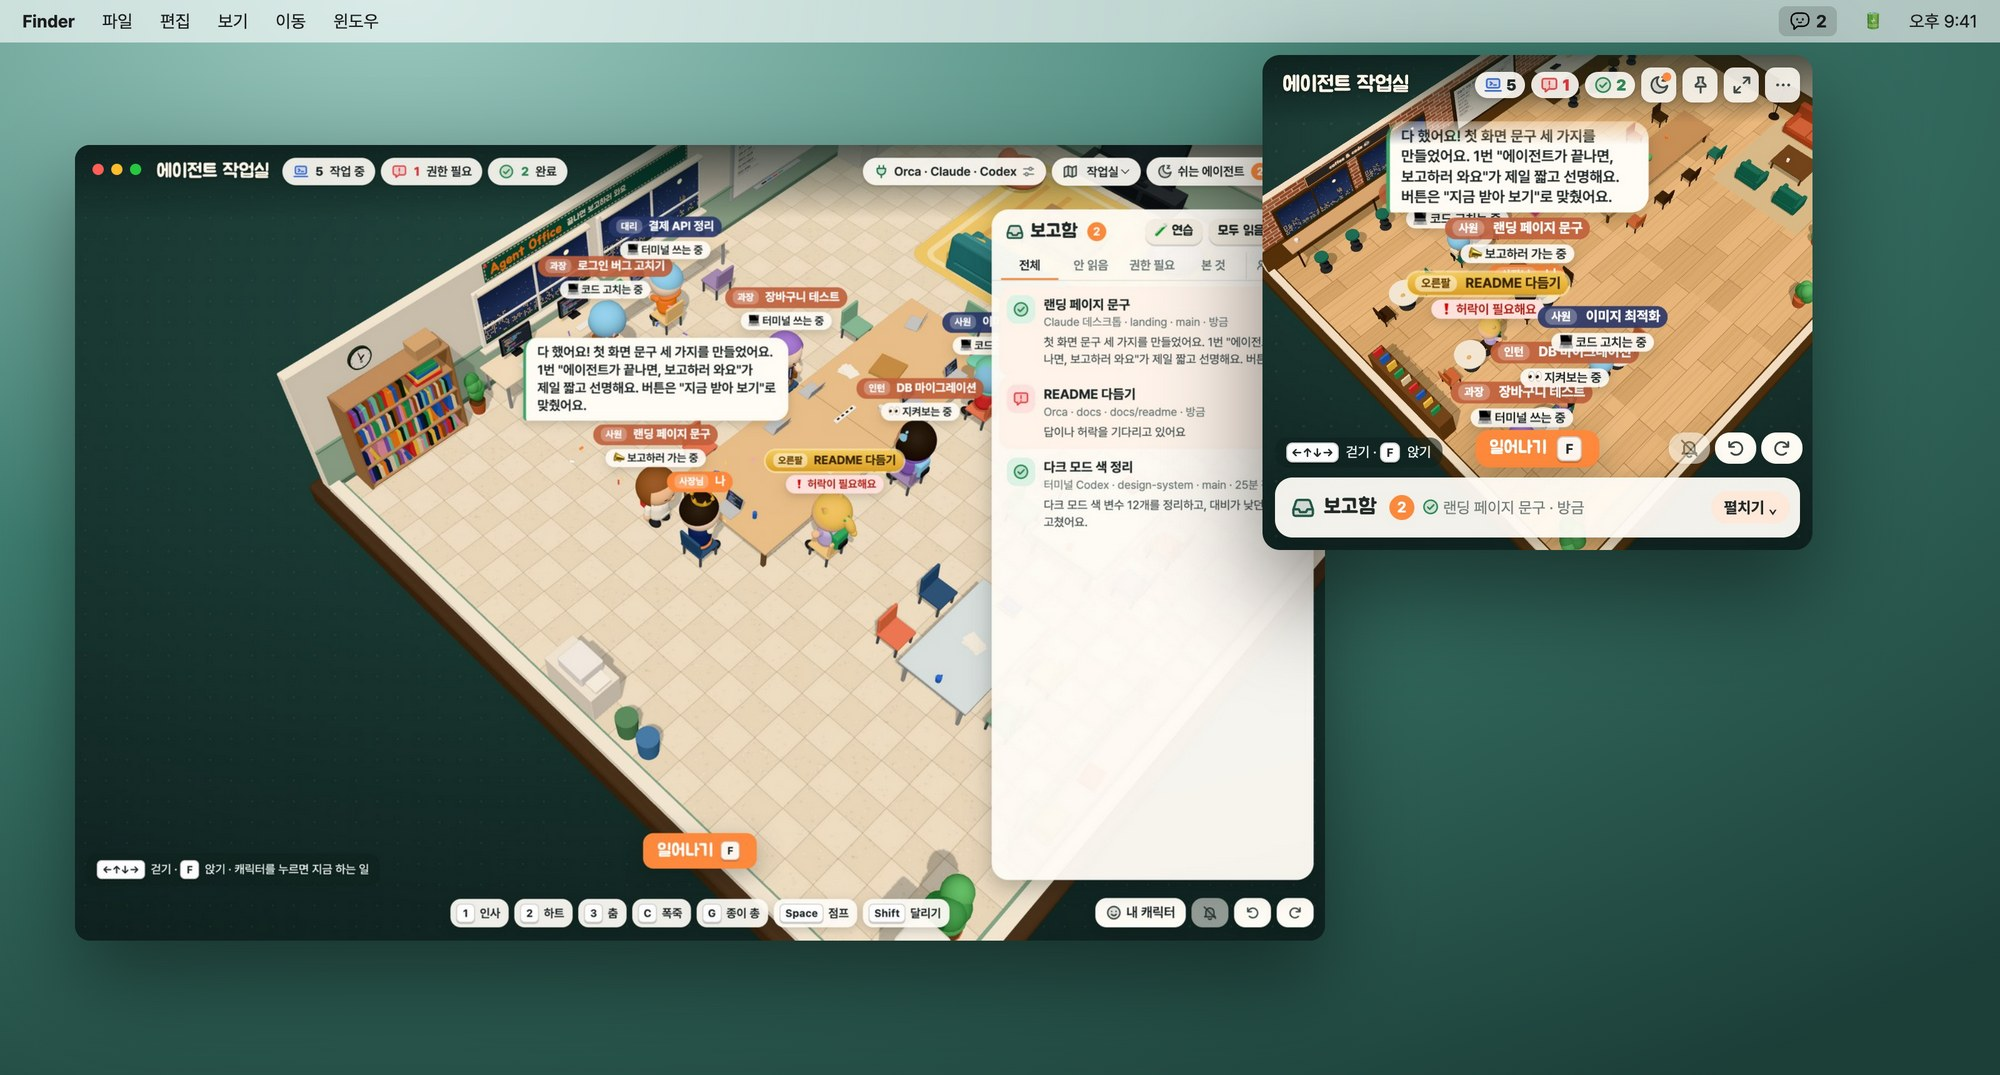
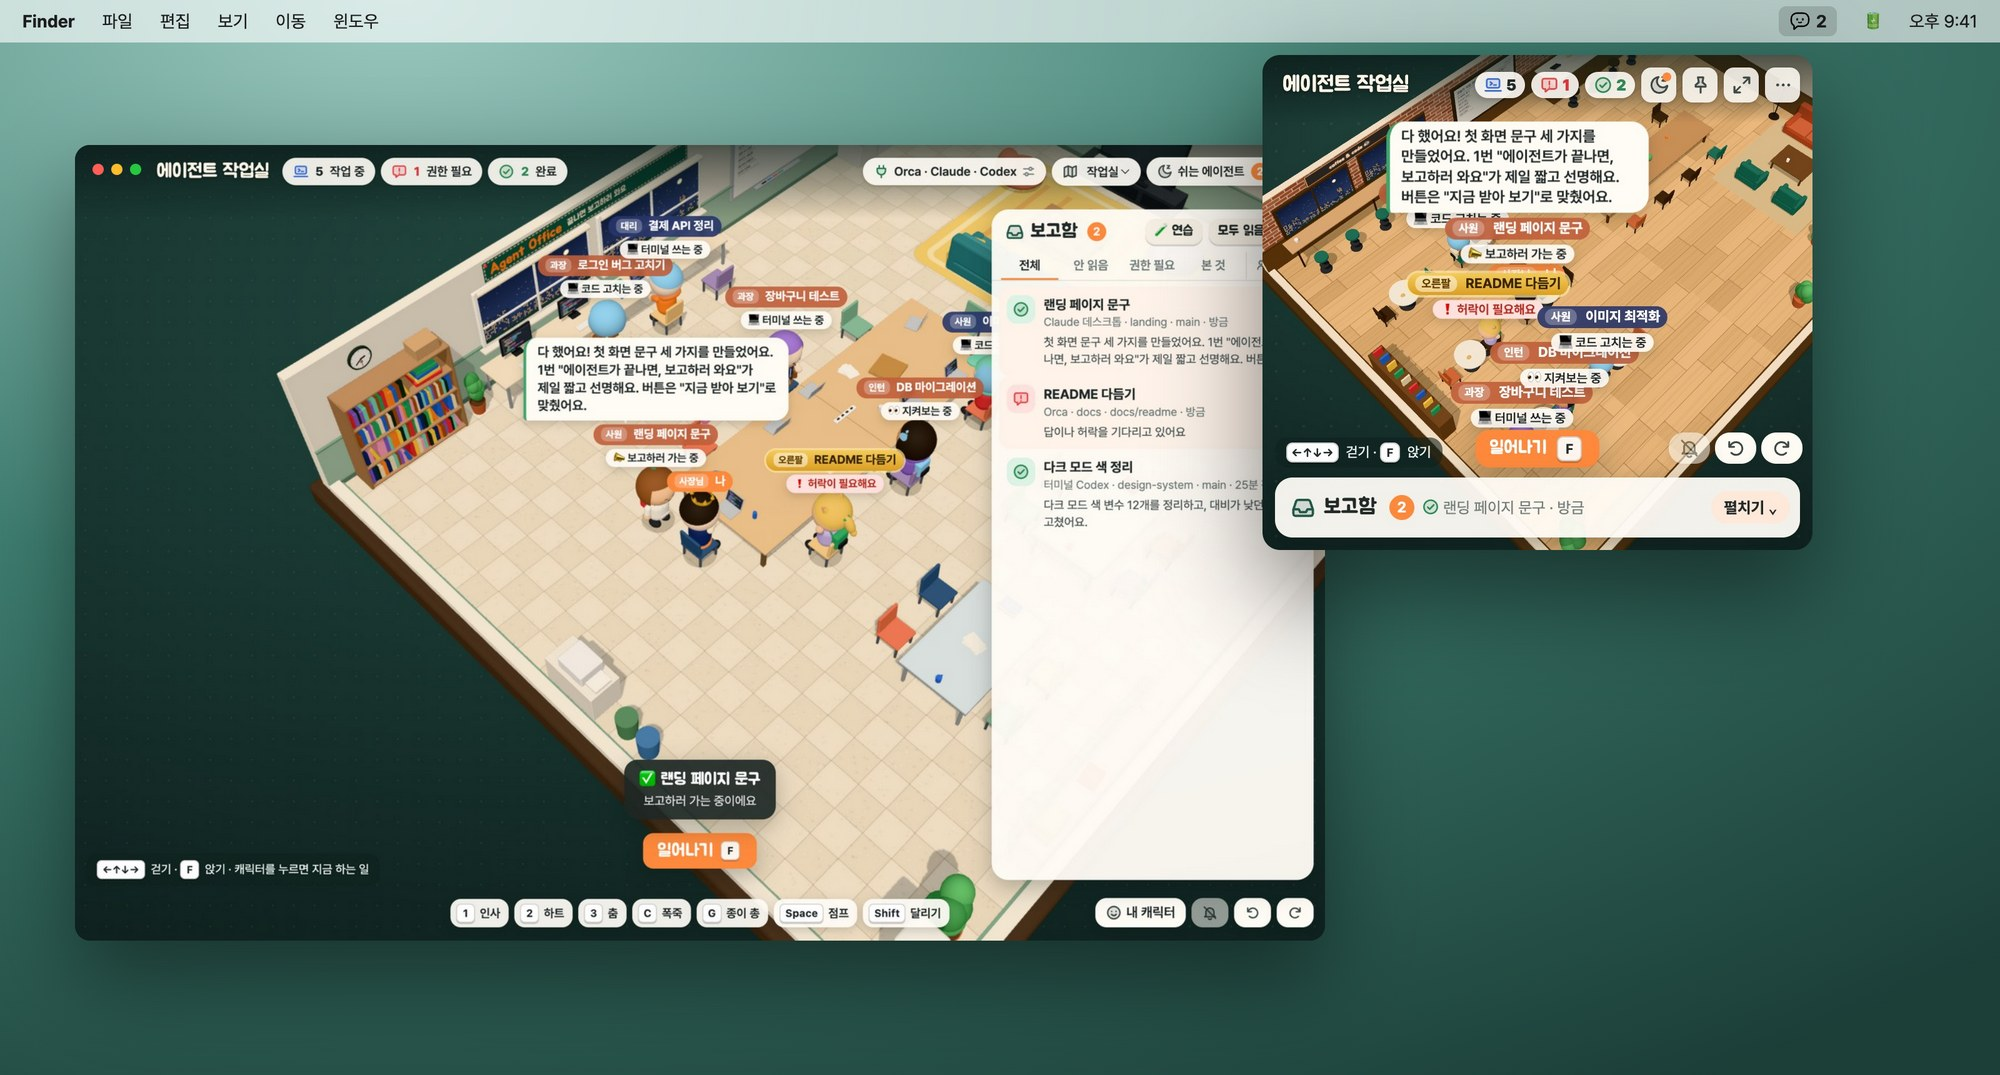
에이전트 작업실 0.1.2: 렉 줄이기
- 움직일 때만 1초에 60번 그리고, 가만히 있으면 24번, 다른 앱을 쓰는 중이면 12번
- 큰 창 해상도를 1.5배까지로
- 캐릭터는 발밑 동그란 그림자, 가구 그림자는 가끔만 다시 그리기
- 이름표마다 따로 겹을 만들어 창 전체를 다시 칠하지 않게 (가장 큰 원인)
- 작업실 창이 닫혀 있으면 에이전트 상태를 5초마다 확인
- README 스크린샷 갱신

diff --git a/renderer/app.js b/renderer/app.js
@@ -86,10 +86,11 @@ let VB = viewBox();
 
 // ---------- 장면 ----------
 const renderer = new THREE.WebGLRenderer({ antialias: true, alpha: true, powerPreference: 'high-performance' });
-renderer.setPixelRatio(Math.min(devicePixelRatio, 2));
+renderer.setPixelRatio(Math.min(devicePixelRatio, MINI ? 2 : 1.5)); // 큰 창은 1.5배까지만 (렉 방지)
 renderer.setSize(VB.w, VB.h);
 renderer.shadowMap.enabled = true;
 renderer.shadowMap.type = THREE.PCFShadowMap;
+renderer.shadowMap.autoUpdate = false; // 그림자는 frame()에서 두 번에 한 번만 다시 그린다
 renderer.outputColorSpace = THREE.SRGBColorSpace;
 renderer.toneMapping = THREE.NeutralToneMapping;
 renderer.domElement.id = 'stage';
@@ -144,7 +145,21 @@ function makeLabel(kind) {
 function place(lbl, x, y, z) {
   _v.set(x, y, z).project(camera);
   const vis = _v.z < 1 && _v.z > -1 && Math.abs(_v.x) < 1.15 && Math.abs(_v.y) < 1.15;
-  if (vis) lbl.el.style.transform = `translate(${(_v.x * 0.5 + 0.5) * VB.w}px, ${(-_v.y * 0.5 + 0.5) * VB.h}px) translate(-50%, -100%)`;
+  const sy = (-_v.y * 0.5 + 0.5) * VB.h;
+  if (vis) {
+    // 위치가 그대로면 건드리지 않는다 (0.5px 단위로 맞춰서 쓸데없는 다시 그리기를 줄인다)
+    const tf = `translate(${Math.round((_v.x * 0.5 + 0.5) * VB.w * 2) / 2}px, ${Math.round(sy * 2) / 2}px) translate(-50%, -100%)`;
+    if (lbl.tf !== tf) {
+      lbl.tf = tf;
+      lbl.el.style.transform = tf;
+    }
+  }
+  // 머리줄 아래에서 서서히 나타나게 (이름표 아래 끝이 위쪽 100px 안이면 흐리게)
+  const op = sy < 100 ? Math.max(0, Math.min(1, (sy - 60) / 40)) : 1;
+  if (lbl.op !== op) {
+    lbl.op = op;
+    lbl.el.style.opacity = op;
+  }
   if (lbl.vis !== vis) {
     lbl.vis = vis;
     lbl.el.style.visibility = vis ? 'visible' : 'hidden';
@@ -254,7 +269,7 @@ const BOSS_DEFAULT = {
 };
 let bossLook = normalizeLook(settings.bossLook || BOSS_DEFAULT);
 const me = {
-  av: new Avatar(bossLook),
+  av: new Avatar(bossLook, { shadow: false, blob: true }),
   lbl: makeLabel('boss'),
   x: BOSS_SEAT.x,
   z: BOSS_SEAT.z,
@@ -424,7 +439,7 @@ function lookFor(id) {
   return normalizeLook(l);
 }
 function makeAgent(d) {
-  const av = new Avatar(lookFor(d.id));
+  const av = new Avatar(lookFor(d.id), { shadow: false, blob: true }); // 캐릭터는 동그란 그림자 (렉 방지)
   scene.add(av.root);
   const type = ['claude', 'codex', 'gemini'].includes(d.type) ? d.type : 'agent';
   const a = {
@@ -1462,8 +1477,20 @@ function updateLabels(now) {
     }
   }
 }
-function frame() {
+// 렉 방지: 창을 보고 있고 뭔가 움직일 때만 1초에 60번, 가만히 있으면 24번, 다른 앱을 쓰는 중이면 12번 그린다
+let lastDraw = 0;
+let drawNo = 0;
+let focused = document.hasFocus();
+addEventListener('focus', () => (focused = true));
+addEventListener('blur', () => (focused = false));
+const lively = () => keys.size > 0 || me.moving > 0 || me.y > 0 || [...agents.values()].some((a) => a.mode === 'walk' || a.role === 'report');
+function frame(now = performance.now()) {
   requestAnimationFrame(frame);
+  const fps = !focused ? 12 : lively() ? 60 : 24;
+  if (now - lastDraw < 1000 / fps - 4) return;
+  lastDraw = now;
+  // 그림자는 가구만 만든다 (캐릭터는 동그란 그림자) → 가끔만 다시 그리면 된다
+  if (drawNo++ % 60 === 0 || Math.abs(cam.yaw - cam.yawT) > 0.002) renderer.shadowMap.needsUpdate = true; // 카메라를 돌리는 동안은 바로바로
   const dt = Math.min(0.05, clock.getDelta());
   t += dt;
   updateMe(dt);
@@ -1508,6 +1535,7 @@ function frame() {
 }
 
 updateCamera(0.016);
+renderer.shadowMap.needsUpdate = true;
 renderer.render(scene, camera);
 requestAnimationFrame(frame);
 setTimeout(() => $('loading').classList.add('done'), 150);

diff --git a/renderer/desktop.css b/renderer/desktop.css
@@ -283,10 +283,6 @@ body:not(.mini) #topBar {
   border-bottom: 0; box-shadow: none;
 }
 body:not(.mini) #scene, body:not(.mini) #labels { top: 0; }
-#labels {
-  -webkit-mask-image: linear-gradient(180deg, transparent 0, transparent 42px, #000 72px);
-  mask-image: linear-gradient(180deg, transparent 0, transparent 42px, #000 72px);
-}
 body:not(.mini) #placeBadge b { color: #FFF6E8; text-shadow: 0 1px 3px rgba(0, 0, 0, .35); }
 body:not(.mini) #placeHud .chip.stat, body:not(.mini) #topRight .chip { background: rgba(255, 252, 246, .92); box-shadow: 0 1px 4px rgba(0, 0, 0, .18); }
 body:not(.mini) #topRight button.chip:hover, body:not(.mini) #mapChip:hover { background: #fff; }
@@ -371,3 +367,6 @@ body.mini #restList { max-height: 190px; }
 .pchk { display: flex; align-items: center; gap: 6px; color: #4B5452; font-size: 13px; cursor: pointer; }
 #restGo:disabled { opacity: .45; cursor: default; }
 .popt { display: flex; align-items: center; gap: 8px; padding: 10px 14px 12px; border-top: 1px solid var(--line); color: #4B5452; font-size: 12.5px; cursor: pointer; }
+
+/* 렉 방지: 이름표마다 따로 겹을 만들어, 움직여도 창 전체를 다시 칠하지 않게 */
+#labels .lbl { will-change: transform; }

diff --git a/shared/js/avatar.js b/shared/js/avatar.js
@@ -30,6 +30,8 @@ function M(color, extra) {
   return m;
 }
 const HIT_MAT = new THREE.MeshBasicMaterial({ visible: false });
+const BLOB_GEO = new THREE.CircleGeometry(0.27, 24);
+const BLOB_MAT = new THREE.MeshBasicMaterial({ color: '#2A2016', transparent: true, opacity: 0.2, depthWrite: false });
 
 let laptopScreenTex = null;
 let stickerTex = null;
@@ -215,13 +217,21 @@ function drawFace(g, expr, mode) {
 export const EMOTE_DUR = { wave: 1.7, heart: 1.8, sip: 1.5, boom: 0.9, salute: 1.8 };
 
 export class Avatar {
-  constructor(look, { shadow = true } = {}) {
+  // blob: 실시간 그림자 대신 발밑에 옅은 동그란 그림자 (캐릭터가 많아도 가볍다)
+  constructor(look, { shadow = true, blob = false } = {}) {
     sharedTextures();
     this.root = new THREE.Group();
     this.pose = new THREE.Group();
     this.body = new THREE.Group();
     this.root.add(this.pose);
     this.pose.add(this.body);
+    if (blob) {
+      const disc = new THREE.Mesh(BLOB_GEO, BLOB_MAT);
+      disc.rotation.x = -Math.PI / 2;
+      disc.position.y = 0.012;
+      disc.renderOrder = -1;
+      this.root.add(disc);
+    }
     this.shadow = shadow;
 
     this.torso = this.mesh(G.torso, null, this.body);

diff --git a/orca.js b/orca.js
@@ -233,7 +233,16 @@ function createWatcher({ interval = 2000, onReport, onUnread, onWork, onAnswered
   }
 
   poll();
-  const timer = setInterval(poll, interval);
+  // interval: 숫자나 함수 (함수면 매번 물어본다: 창이 열려 있으면 자주, 닫혀 있으면 가끔)
+  let timer = null;
+  const every = () => (typeof interval === 'function' ? interval() : interval);
+  const tick = () => {
+    timer = setTimeout(() => {
+      poll();
+      tick();
+    }, every());
+  };
+  tick();
 
   return {
     state,
@@ -290,7 +299,7 @@ function createWatcher({ interval = 2000, onReport, onUnread, onWork, onAnswered
       return !!p && state.agents.some((a) => a.worktree.path === p);
     },
     stop() {
-      clearInterval(timer);
+      clearTimeout(timer);
     },
   };
 }

diff --git a/server.js b/server.js
@@ -114,6 +114,7 @@ function startServer({
   onSetupDone,
   onSettings,
   getAppIcons,
+  isViewing, // 작업실 창이 열려 있는지 (닫혀 있으면 덜 자주 확인)
   getLoginItem,
   setLoginItem,
   fixture,
@@ -131,6 +132,7 @@ function startServer({
   const staff = createStaff({ get: () => settings.staff, save: () => saveSettings() });
   const watcher = createWatcher({
     fixture,
+    interval: () => (!isViewing || isViewing() ? 2000 : 5000),
     getSettings: () => settings,
     onReport: (r, unread) => {
       if (settings.notify !== false) notify?.(r);

diff --git a/main.js b/main.js
@@ -267,6 +267,7 @@ app.whenReady().then(async () => {
     onSetupDone: finishSetup,
     onSettings: applyPopSettings,
     getAppIcons,
+    isViewing: () => !!(pop?.isVisible() || win?.isVisible() || setupWin?.isVisible()),
     getLoginItem: () => app.getLoginItemSettings().openAtLogin,
     setLoginItem: (on) => {
       try {

diff --git a/README.md b/README.md
@@ -96,7 +96,7 @@
 
 ## 설치
 
-1. [Releases](https://github.com/sangjun121/agent-office/releases/latest)에서 `agent-office-0.1.1-arm64.dmg`를 받아요.
+1. [Releases](https://github.com/sangjun121/agent-office/releases/latest)에서 `agent-office-0.1.2-arm64.dmg`를 받아요.
 2. DMG를 열고 **Agent Office**를 **Applications** 폴더로 끌어다 놓아요.
 3. 처음 열면 "Apple에서 확인할 수 없는 개발자" 경고가 떠요. 아직 Apple 개발자 인증(공증)을 받지 않은 앱이라서 그래요.
    - **시스템 설정 → 개인정보 보호 및 보안**으로 가서 아래쪽의 **그래도 열기**를 누르면 돼요.
@@ -109,7 +109,7 @@
 받은 파일이 릴리스에 올린 파일과 같은지 확인하고 싶다면, 아래 값을 릴리스의 `SHA256SUMS.txt`와 비교해 보세요.
 
 ```sh
-shasum -a 256 agent-office-0.1.1-arm64.dmg
+shasum -a 256 agent-office-0.1.2-arm64.dmg
 ```
 
 > Intel Mac용 파일은 아직 없어요. 필요하면 [직접 빌드하기](#직접-빌드하기)를 참고하세요.
